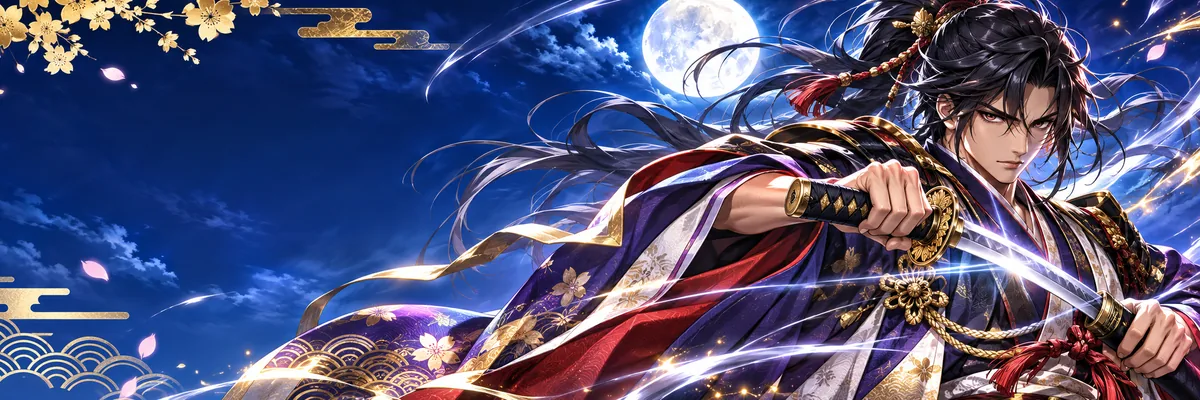
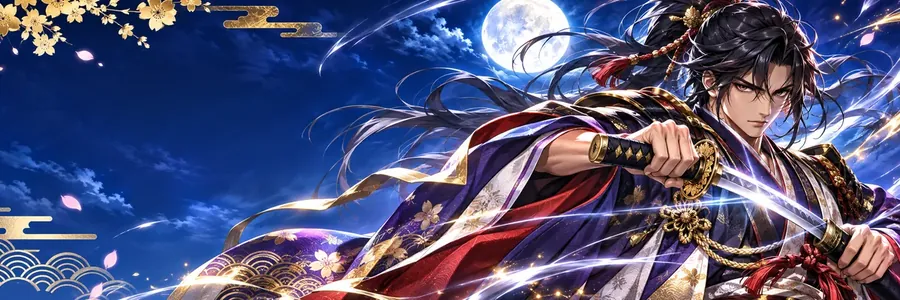
レビューの指摘を直す（台の液晶）
- 知らせを順番待ちにして、前の知らせを消さずに1つずつ出す（天井・BIG・実績などが重なると見えなかった）
- 扉の大当たりの枚数、八門の「扉チャンス終了 合計 n枚 獲得」、レバーを引いたときのボーナス確定、オートが止まったときの当たりの気配を液晶に出す
- ふつうの払い出し（ベル・チェリー・REG 中・ラッシュ中のベル）も液晶に出す（短く）。リプレイは枚数を出さず、ボーナスの合計にも数えない
- 画面を作り直しても、出ている知らせが二重に飛び出さない
- 知らせの種類を文言から決めず、呼ぶ側で渡す。金色にする枚数や表示時間を src/data/ui.ts に
- 当たっていない役が画面にそろったときの払い出しで、チェリー・スイカの払い出しが飛ばされることがあったのを直した
- 液晶を少し高くして下の帯が知らせに重ならないように。バナーの画像を 900×300 にして軽くした。使わなくなった台の絵の描画を消した

Claude-Session: https://claude.ai/code/session_016fk9NuHm5XbXuuYNEzQTzr

diff --git a/src/ui/app.ts b/src/ui/app.ts
@@ -10,7 +10,7 @@ import { dailyEffects } from '../game/life';
 import { CURRENT_BUILD, buildLabel, fetchLatestBuild, reloadToLatest } from '../version';
 import { loadSymbols, drawSymImage } from './symbols';
 import { DEV_PASSWORD, DEV_TAPS, DEV_TAP_MS, DEV_MAX_MONEY } from '../data/dev';
-import { AUTO_GAMES, HIST_MAX, LCD_MS } from '../data/ui';
+import { AUTO_GAMES, HIST_MAX, LCD_MS, LCD_BUSY_MS, LCD_SMALL_MS, LCD_GOLD } from '../data/ui';
 import { setTabbar, pagesHTML, bindPages, openSheet } from './widgets';
 
 export function startApp(){
@@ -416,7 +416,6 @@ function renderFloor(){
   <div class="friend"><div class="r"><span>店員さんとの仲</span><b>${f}</b></div><div class="bar"><i style="width:${f}%;background:var(--cyan)"></i></div><p>${friendInfo()}</p>
   <button class="btn alt" type="button" data-a="gift" ${Hs.gift===S.day||S.money<HALLS[hallIdx].gift?'disabled':''}>${Hs.gift===S.day?'今日は差し入れ済み':`差し入れをする ${yen(HALLS[hallIdx].gift)}（仲+8）`}</button></div>
   <button class="btn alt" type="button" data-a="home">やっぱり帰る</button>`;
-  document.querySelectorAll('[data-mach]').forEach(cv=>{const c=cv.getContext('2d');c.imageSmoothingEnabled=false;drawMachine(c,MACH[cv.dataset.mach])});
 }
 
 /* ---------- playing ---------- */
@@ -493,7 +492,7 @@ function lever(){
   P.g++;P.order=[];P.navi=-1;P.hint=-1;P.res=[];P.wins=null;
   tick();
   if(P.mode==='normal'){P.flag=P.pend||roll(mach(),P.s,Math.random());P.pend=null;
-    if(P.flag==='BIG'||P.flag==='REG'){const b=P.flag;if(Math.random()<.5){P.mode='align';P.bonus=b;SND.fan();P.flag='BONUS'}else{P.post=b;P.flag=null}}
+    if(P.flag==='BIG'||P.flag==='REG'){const b=P.flag;if(Math.random()<.5){P.mode='align';P.bonus=b;SND.fan();P.flag='BONUS';say('ボーナス確定！',P.m.kind==='sanj'?'赤7をそろえよう':'7をそろえよう','hot')}else{P.post=b;P.flag=null}}
     else if(P.flag==='CH'&&Math.random()<P.m.dup){P.post=P.m.reg&&Math.random()<.4?'REG':'BIG';P.dupCH=true}
     if(P.flag==='BL'&&P.m.kind==='sanj'){P.navCorrect=Math.floor(Math.random()*3);if(Math.random()<.3)P.hint=P.navCorrect}
   }else if(P.mode==='at'){P.flag=atRoll(Math.random());if(P.flag==='BL'){P.navCorrect=Math.floor(Math.random()*3);P.navi=P.navCorrect}}
@@ -545,45 +544,60 @@ function landed(i,res){
 }
 function popAt(i,text,cls){const g=$('#glass');if(!g)return;const x=PAD+i*(RW+GAP)+RW/2,el=document.createElement('div');el.className='pop '+cls;el.textContent=text;el.style.left=((g.clientWidth-cv.clientWidth)/2+x)+'px';g.appendChild(el);setTimeout(()=>el.remove(),950)}
 function offText(res){if(res.off>0)return res.off+'コマ早い';if(res.off<0)return(-res.off)+'コマ遅い';return 'ハズレ'}
-// 打っている間の知らせは、リールの上の液晶に大きく出す（仕様書 9.6）。下の文字だと見ないため
-const BONUS_MODES=['big','reg','at','zen'];
-function gain(n,why){if(n>0){P.medals+=n;SND.pay();if(BONUS_MODES.includes(P.mode))P.bonusGot=(P.bonusGot||0)+n}if(why)say(n>0?why.replace(/\s*\d+枚$/,''):why,n>0?`+${n}枚 獲得`:'',n>=30?'gold':'')}
-function logMsg(t){P.log.push(t);let sub='';if(/終了$/.test(t)&&P.bonusGot){sub=`合計 ${P.bonusGot}枚 獲得`;P.bonusGot=0}say(t,sub,/終了$/.test(t)?'gold':/こぼし|外した|そろわず/.test(t)?'miss':'')}
-let lcdT;function say(text,sub='',cls=''){if(!P)return;P.lcd={text,sub,cls,until:Date.now()+LCD_MS};const el=$('#lcdMsg');if(el)el.outerHTML=lcdMsgHTML();clearTimeout(lcdT);lcdT=setTimeout(()=>{const e2=$('#lcdMsg');if(e2&&P)e2.outerHTML=lcdMsgHTML()},LCD_MS+30)}
-function lcdMsgHTML(){const L=P.lcd&&P.lcd.until>Date.now()?P.lcd:null;return `<div class="lcd-msg${L?' on '+L.cls:''}" id="lcdMsg" aria-live="polite">${L?`<b>${L.text}</b>${L.sub?`<small>${L.sub}</small>`:''}`:''}</div>`}
+// 打っている間の知らせは、リールの上の液晶に大きく出す（仕様書 9.6）。下の文字だと見ないため。
+// 知らせは順番待ちにして、前の知らせを消さずに1つずつ出す
+const BONUS_MODES=['big','reg','at','zen','door'];
+// 払い出し。why は液晶に出す役の名前。replay は「獲得」に数えない（ボーナスの合計はリプレイを除いた払い出しの合計）
+function gain(n,why,replay=false){if(n>0){P.medals+=n;SND.pay();if(!replay&&BONUS_MODES.includes(P.mode))P.bonusGot=(P.bonusGot||0)+n}
+  if(why)say(why,n>0&&!replay?`+${n}枚 獲得`:'',n<=0?'miss':n>=LCD_GOLD?'gold':'',n>0&&n<LCD_GOLD?'small':'')}
+// kind：'end' はボーナス終了（合計の獲得枚数を添える）、'miss' は取りこぼし
+function logMsg(t,kind=''){P.log.push(t);let sub='';if(kind==='end'&&P.bonusGot){sub=`合計 ${P.bonusGot}枚 獲得`;P.bonusGot=0}say(t,sub,kind==='end'?'gold':kind)}
+let lcdT;
+// prio が 'small' の知らせ（ふつうの払い出し）は、順番待ちが長くならないよう、待っている small を置き換える
+function say(text,sub='',cls='',prio=''){if(!P)return;P.lcdQ=P.lcdQ||[];
+  if(prio==='small')P.lcdQ=P.lcdQ.filter(m=>m.prio!=='small');
+  P.lcdQ.push({text,sub,cls,prio});if(!(P.lcd&&P.lcd.until>Date.now()))lcdNext()}
+function lcdNext(){clearTimeout(lcdT);if(!P)return;const m=(P.lcdQ||[]).shift();
+  if(!m){P.lcd=null;const e=$('#lcdMsg');if(e)e.outerHTML=lcdMsgHTML();return}
+  const ms=m.prio==='small'?LCD_SMALL_MS:P.lcdQ.length?LCD_BUSY_MS:LCD_MS;P.lcd={...m,until:Date.now()+ms};
+  const e=$('#lcdMsg');if(e)e.outerHTML=lcdMsgHTML(false);lcdT=setTimeout(lcdNext,ms)}
+// still：画面を作り直したときは、出ている知らせを動かさずにそのまま出す
+function lcdMsgHTML(still=true){const L=P.lcd&&P.lcd.until>Date.now()?P.lcd:null;return `<div class="lcd-msg${L?' on '+L.cls+(still?' still':''):''}" id="lcdMsg" aria-live="polite">${L?`<b>${L.text}</b>${L.sub?`<small>${L.sub}</small>`:''}`:''}</div>`}
 function settle(){
   const f=P.flag,k=P.m.kind,res=P.res,all=f==='BONUS'?(P.wins||[]).some(w=>w.sym===P.bonus):!!f&&(P.wins||[]).some(w=>w.sym===f);
   if(P.mode==='normal'){
     const on=x=>(P.wins||[]).some(w=>w.sym===x);
-    if(f==='RP'){if(on('RP'))gain(PAY.RP);else logMsg('リプレイこぼし')}
-    else if(f==='BL'){if(k==='sanj'){const ok=P.order[0]===P.navCorrect&&on('BL');gain(ok?PAY.BLok:PAY.BLng,ok?'3択正解 ベル9枚':'押し順ミス 1枚')}else if(on('BL'))gain(PAY.BL);else logMsg('ベルこぼし（変則押し）')}
-    if(f!=='BL'&&on('BL'))gain(k==='sanj'?PAY.BLok:PAY.BL);if(f!=='RP'&&on('RP'))gain(PAY.RP);
-    else if(f==='CH'){if(k==='fuku')gain(res[0].hit?PAY.CHf:0,res[0].hit?'チェリー 4枚':'チェリーこぼし');else gain(PAY.CHo)}
-    else if(f==='WM'){gain(all?PAY.WM:0,all?'スイカ 12枚':'スイカこぼし')}
+    if(f==='RP'){if(on('RP'))gain(PAY.RP,'リプレイ',true);else logMsg('リプレイこぼし','miss')}
+    else if(f==='BL'){if(k==='sanj'){const ok=P.order[0]===P.navCorrect&&on('BL');gain(ok?PAY.BLok:PAY.BLng,ok?'3択正解 ベル':'押し順ミス')}else if(on('BL'))gain(PAY.BL,'ベル');else logMsg('ベルこぼし（変則押し）','miss')}
+    else if(f==='CH'){if(k==='fuku')gain(res[0].hit?PAY.CHf:0,res[0].hit?'チェリー':'チェリーこぼし');else gain(PAY.CHo,'チェリー')}
+    else if(f==='WM'){gain(all?PAY.WM:0,all?'スイカ':'スイカこぼし')}
+    // 当たっていない役が画面にそろったときも、画面どおりに払い出す（変則押しのとき）
+    if(f!=='BL'&&on('BL'))gain(k==='sanj'?PAY.BLok:PAY.BL,'ベル');
+    if(f!=='RP'&&on('RP'))gain(PAY.RP,'リプレイ',true);
   }else if(P.mode==='align'){
     if(all){
       bonusStarted();
-      if(P.bonus==='REG'){P.reg=(P.reg||0)+1;P.mode='reg';P.left=REG_G;cutin('REG');logMsg('7・7・BAR REG')}
-      else{P.big++;if(k==='fuku'){P.mode='big';P.left=BIG_G;cutin('BIG');logMsg('7・7・7 BIG')}else if(k==='sanj'){P.mode='at';P.left=AT_G;cutin('侍ラッシュ')}else{P.mode='zen';P.left=ZEN_G;P.doors=[0,1,2,3,4,5,6,7];P.winDoor=Math.floor(Math.random()*8);cutin('扉チャンス')}}
+      if(P.bonus==='REG'){P.reg=(P.reg||0)+1;P.mode='reg';P.left=REG_G;say('REG','7・7・BAR','hot')}
+      else{P.big++;if(k==='fuku'){P.mode='big';P.left=BIG_G;say('BIG','7・7・7','hot')}else if(k==='sanj'){P.mode='at';P.left=AT_G;say('侍ラッシュ','7・7・7','hot')}else{P.mode='zen';P.left=ZEN_G;P.doors=[0,1,2,3,4,5,6,7];P.winDoor=Math.floor(Math.random()*8);say('扉チャンス','中リールの赤7で扉を減らせ','hot')}}
       SND.fan();P.post=null;
-    }else logMsg('そろわず。もう一度');
+    }else logMsg('そろわず。もう一度','miss');
   }else if(P.mode==='big'){
-    const ok=res[0].bita,okPay=BITA_OK+(has('bita10')?2:0);gain(ok?okPay:BITA_NG,ok?'ビタ成功 '+okPay+'枚':'ビタ失敗 '+BITA_NG+'枚');S.bitaRun=ok?S.bitaRun+1:0;if(S.bitaRun>=10)grant('bita10');P.bitaN=(P.bitaN||0)+(ok?1:0);P.left--;if(P.left<=0){P.mode='normal';logMsg('BIG終了');S.fun=clamp(S.fun+6)}
+    const ok=res[0].bita,okPay=BITA_OK+(has('bita10')?2:0);gain(ok?okPay:BITA_NG,ok?'ビタ成功':'ビタ失敗');S.bitaRun=ok?S.bitaRun+1:0;if(S.bitaRun>=10)grant('bita10');P.bitaN=(P.bitaN||0)+(ok?1:0);P.left--;if(P.left<=0){P.mode='normal';logMsg('BIG終了','end');S.fun=clamp(S.fun+6)}
   }else if(P.mode==='reg'){
-    gain(REG_PAY);P.left--;if(P.left<=0){P.mode='normal';logMsg('REG終了');S.fun=clamp(S.fun+3)}
+    gain(REG_PAY,'REG');P.left--;if(P.left<=0){P.mode='normal';logMsg('REG終了','end');S.fun=clamp(S.fun+3)}
   }else if(P.mode==='at'){
-    if(f==='BL')gain(P.order[0]===P.navi?PAY.BLok:PAY.BLng);else if(f==='RP')gain(PAY.RP);
+    if(f==='BL'){const ok=P.order[0]===P.navi;gain(ok?PAY.BLok:PAY.BLng,ok?'ナビどおり ベル':'押し順ミス')}else if(f==='RP')gain(PAY.RP,'リプレイ',true);
     P.left--;if(P.left<=0){P.mode='cont';P.contWin=Math.floor(Math.random()*3)}
   }else if(P.mode==='zen'){
-    const n=res[1].bita?2:res[1].hit?1:0;if(n){const wrong=P.doors.filter(d=>d!==P.winDoor).sort(()=>Math.random()-.5).slice(0,n);P.doors=P.doors.filter(d=>!wrong.includes(d));logMsg(n===2?'中段ビタ 扉が2つ消えた':'赤7 扉が1つ消えた')}else logMsg('赤7を外した')
+    const n=res[1].bita?2:res[1].hit?1:0;if(n){const wrong=P.doors.filter(d=>d!==P.winDoor).sort(()=>Math.random()-.5).slice(0,n);P.doors=P.doors.filter(d=>!wrong.includes(d));logMsg(n===2?'中段ビタ 扉が2つ消えた':'赤7 扉が1つ消えた')}else logMsg('赤7を外した','miss')
     P.left--;if(P.left<=0)P.mode='door';
   }
-  if(P.post&&P.mode==='normal'){P.mode='align';P.bonus=P.post;P.post=null;SND.fan();if(P.dupCH){cutin('チェリー重複');P.dupCH=false}else say('ボーナス確定！',P.m.kind==='sanj'?'赤7をそろえよう':'7をそろえよう','hot')}
+  if(P.post&&P.mode==='normal'){P.mode='align';P.bonus=P.post;P.post=null;SND.fan();if(P.dupCH){say('チェリー重複','ボーナス確定！','hot');P.dupCH=false}else say('ボーナス確定！',P.m.kind==='sanj'?'赤7をそろえよう':'7をそろえよう','hot')}
   P.flag=null;S.play.medals=P.medals;S.play.inv=P.inv;save();
   if(S.hp<=0)return collapse();
   renderPlay();
 }
-function bonusStarted(){P.bonusGot=0;grant('first');if(P.ceilHit){grant('ceil');cutin('天井')}else if(P.startSince>=400&&P.g<=CEIL[P.m.kind]-P.startSince)grant('hyena');P.since=0;P.ceilHit=false;P.startSince=0}
+function bonusStarted(){P.bonusGot=0;grant('first');if(P.ceilHit){grant('ceil');say('天井','ボーナス確定','hot')}else if(P.startSince>=400&&P.g<=CEIL[P.m.kind]-P.startSince)grant('hyena');P.since=0;P.ceilHit=false;P.startSince=0}
 function payHTML(){
   const k=P.m.kind,rows=[['ベル（1ライン）',k==='sanj'?'押し順正解9枚／不正解1枚':'8枚'],['リプレイ','もう1回無料'],['チェリー（左リールのどこでも）',(k==='fuku'?'4枚':'2枚')+`。${Math.round(P.m.dup*100)}%でボーナスも同時に当たっている`],...(k==='fuku'?[['スイカ（1ライン）','12枚']]:[]),
     ['7・7・7',k==='fuku'?`BIG ${BIG_G}G。毎ゲーム左リールを滑らせずに、上から7・リプレイ・7の形で止める（中段がリプレイ）。成功${BITA_OK}枚、失敗${BITA_NG}枚`:k==='sanj'?`侍ラッシュ ${AT_G}G（押し順ナビ）`:`扉チャンス。前兆${ZEN_G}Gの間、中リールに赤7を止めると扉-1、中段に滑りなしで止めると扉-2。最後に8択`],...(P.m.reg?[['7・7・BAR',`REG ${REG_G}G。毎ゲーム${REG_PAY}枚`]]:[])];
@@ -594,19 +608,19 @@ function tick(){const sk=Math.random()<.1*S.upg.body;if(P.g%12===0&&!sk)S.hun=cl
 function doorHTML(){return `<p class="lead" style="text-align:center;font-size:18px">8つの扉から1つ選べ（残り${P.doors.length}）</p><div class="picks p8">${[0,1,2,3,4,5,6,7].map(d=>`<button class="door ${P.doors.includes(d)?'':'gone'}" type="button" data-a="door" data-d="${d}" ${P.doors.includes(d)?'':'disabled'}>${d+1}</button>`).join('')}</div><p class="sub">当たりなら ${DOOR_WIN}枚、外れでも ${DOOR_LOSE}枚</p>`}
 function contHTML(){return `<p class="lead" style="text-align:center;font-size:18px">継続をかけた3択。正解なら +${AT_ADD}G</p><div class="picks p3">${['左','中','右'].map((n,i)=>`<button class="door" type="button" data-a="cont" data-d="${i}">${n}</button>`).join('')}</div>`}
 function pickDoor(d){
-  const win=d===P.winDoor;gain(win?DOOR_WIN:DOOR_LOSE,win?'扉 大当たり '+DOOR_WIN+'枚':'扉 外れ '+DOOR_LOSE+'枚');
-  if(win){cutin('大当たり');SND.fan();S.fun=clamp(S.fun+12)}else S.fun=clamp(S.fun+4);
-  P.mode='normal';P.doors=null;save();renderPlay();
+  const win=d===P.winDoor;gain(win?DOOR_WIN:DOOR_LOSE,win?'扉 大当たり':'扉 外れ');
+  if(win){SND.fan();S.fun=clamp(S.fun+12)}else S.fun=clamp(S.fun+4);
+  P.mode='normal';P.doors=null;logMsg('扉チャンス終了','end');save();renderPlay();
 }
 function pickCont(d){
-  if(d===P.contWin){P.mode='at';P.left=AT_ADD;cutin('継続');SND.fan();logMsg('3択正解 ラッシュ継続')}else{P.mode='normal';logMsg('ラッシュ終了');S.fun=clamp(S.fun+6)}
+  if(d===P.contWin){P.mode='at';P.left=AT_ADD;SND.fan();say('ラッシュ継続',`3択正解 +${AT_ADD}G`,'hot')}else{P.mode='normal';logMsg('ラッシュ終了','end');S.fun=clamp(S.fun+6)}
   save();renderPlay();
 }
 function randomStops(){for(let t=0;t<60;t++){reels.forEach(r=>{r.pos=Math.floor(Math.random()*N);r.final=r.pos;r.state='stop'});const fs=reels.map(r=>r.pos);if(!lineWins(fs,reels).length&&!bonusLines(fs,reels,'R7').length&&!bonusLines(fs,reels,'BAR').length&&![0,1,2].some(row=>['CH','WM'].includes(symAt(reels[0],fs[0],row))))break}if(P)P.wins=null}
 // オートで n ゲーム回す。回している間は、どのオートのボタンも「止める」になる
 async function autoPlay(games){
   if(P.spinning||P.autoRun)return;
-  if(P.pend||P.mode==='align'){toast('当たりの気配。ここからは手で打とう');return}
+  if(P.pend||P.mode==='align'){say('当たりの気配','ここからは手で打とう','hot');return}
   P.autoRun=true;P.autoStop=false;sync();
   for(let n=0;n<games&&!P.autoStop;n++){
     if(P.g>=CLOSE_MIN-OPEN_MIN){P.autoRun=false;return quit(true)}
@@ -617,7 +631,7 @@ async function autoPlay(games){
     P.medals-=3;P.g++;tick();
     if(f==='RP')gain(PAY.RP);
     else if(f==='BL'){if(k==='sanj'){const ok=Math.random()<1/3;gain(ok?PAY.BLok:PAY.BLng)}else gain(PAY.BL)}
-    else if(f==='CH'){if(Math.random()<.67){gain(k==='fuku'?PAY.CHf:PAY.CHo);if(Math.random()<P.m.dup){P.mode='align';P.bonus=P.m.reg&&Math.random()<.4?'REG':'BIG';cutin('チェリー重複');SND.fan();break}}}
+    else if(f==='CH'){if(Math.random()<.67){gain(k==='fuku'?PAY.CHf:PAY.CHo);if(Math.random()<P.m.dup){P.mode='align';P.bonus=P.m.reg&&Math.random()<.4?'REG':'BIG';say('チェリー重複','ボーナス確定！','hot');SND.fan();break}}}
     else if(f==='WM'&&k==='fuku'){if(Math.random()<.18)gain(PAY.WM)}
     randomStops();
     $('.counter').outerHTML=counterHTML();const st2=$('.stats');if(st2)st2.outerHTML=statsHTML();status();
@@ -626,7 +640,7 @@ async function autoPlay(games){
     if(S.hp<=0){P.autoRun=false;return collapse()}
   }
   P.autoRun=false;P.autoStop=false;sync();S.play.medals=P.medals;S.play.inv=P.inv;save();
-  if(P.pend||P.mode==='align')toast('当たりの気配。ここからは手で打とう');
+  if(P.pend||P.mode==='align')say('当たりの気配','ここからは手で打とう','hot');
   renderPlay();
 }
 function quit(closed){

diff --git a/src/style.css b/src/style.css
@@ -316,7 +316,6 @@ body{background:radial-gradient(120% 60% at 50% -10%,#3a1f6b 0%,rgba(58,31,107,0
 .grid4 .tile b{font-size:14px}
 /* 機種のバナー（台の絵ができるまでは色と文字だけ） */
 .banner{display:grid;grid-template-columns:auto 1fr;gap:12px;align-items:center;padding:12px 14px;border-radius:14px;border:2px solid transparent;box-shadow:var(--frame-shadow)}
-.banner canvas{width:46px;height:62px;image-rendering:pixelated;filter:drop-shadow(0 2px 0 #000)}
 .banner div{display:flex;flex-direction:column;gap:2px;min-width:0}
 .banner b{font-family:var(--disp);font-weight:400;font-size:30px;line-height:1.1;background:var(--gold-grad);-webkit-background-clip:text;background-clip:text;color:transparent;filter:drop-shadow(0 2px 0 #2a0a0a)}
 .banner span{font-size:12px;color:#f3e6ff;text-shadow:0 1px 0 #000}
@@ -356,12 +355,11 @@ body{background:radial-gradient(120% 60% at 50% -10%,#3a1f6b 0%,rgba(58,31,107,0
 .units-t .aim{font-style:normal;display:inline-block;margin-right:3px;padding:0 3px;border-radius:4px;background:#ffd25a;color:#3a2200;font-size:10px;font-weight:700;vertical-align:1px}
 
 /* ---------- 台の液晶（仕様書 9.6）：台のバナーの絵を背景に、知らせを大きく出す ---------- */
-.lcd{position:relative;aspect-ratio:3/1;max-width:100%;border-radius:10px;overflow:hidden;border:2px solid #000;box-shadow:0 0 0 2px #c88a1e,inset 0 0 18px rgba(0,0,0,.6);background:var(--bn) center/cover,#120c2c}
+.lcd{position:relative;display:flex;flex-direction:column;aspect-ratio:5/2;max-width:100%;border-radius:10px;overflow:hidden;border:2px solid #000;box-shadow:0 0 0 2px #c88a1e,inset 0 0 18px rgba(0,0,0,.6);background:var(--bn) center/cover,#120c2c}
 .lcd::after{content:"";position:absolute;inset:0;pointer-events:none;background:linear-gradient(90deg,rgba(0,0,0,.35),rgba(0,0,0,0) 60%),repeating-linear-gradient(0deg,rgba(255,255,255,.04) 0 1px,transparent 1px 3px)}
-.lcd .lamp{position:absolute;left:0;right:0;bottom:0;z-index:2;min-height:0;border:0!important;border-radius:0;padding:4px 8px;font-size:12px;background:linear-gradient(0deg,rgba(5,4,15,.92),rgba(5,4,15,.6));box-shadow:none}
+.lcd .lamp{position:relative;flex:none;z-index:2;min-height:0;border:0!important;border-radius:0;padding:3px 8px;font-size:11px;line-height:1.35;background:linear-gradient(0deg,rgba(5,4,15,.92),rgba(5,4,15,.6));box-shadow:none}
 .lcd .lamp.empty{display:none}
-.lcd:has(.lamp:not(.empty)) .lcd-msg{bottom:24px}
-.lcd-msg{position:absolute;inset:0;z-index:1;display:flex;flex-direction:column;align-items:center;justify-content:center;gap:2px;text-align:center;padding:0 10px;opacity:0;transition:opacity .2s}
+.lcd-msg{position:relative;flex:1;min-height:0;z-index:1;display:flex;flex-direction:column;align-items:center;justify-content:center;gap:2px;text-align:center;padding:0 10px;opacity:0;transition:opacity .2s}
 .lcd-msg.on{opacity:1;background:radial-gradient(ellipse at center,rgba(0,0,0,.72) 0%,rgba(0,0,0,.35) 70%,rgba(0,0,0,0) 100%);animation:lcdIn .35s cubic-bezier(.2,1.4,.4,1)}
 .lcd-msg b{font-family:var(--disp);font-weight:400;font-size:clamp(22px,7.5vw,32px);line-height:1.15;color:#fff;-webkit-text-stroke:1px #000;text-shadow:0 3px 0 #000,0 0 14px rgba(255,255,255,.5)}
 .lcd-msg small{font-family:var(--disp);font-size:18px;background:var(--gold-grad);-webkit-background-clip:text;background-clip:text;color:transparent;filter:drop-shadow(0 2px 0 #000)}
@@ -375,3 +373,6 @@ body{background:radial-gradient(120% 60% at 50% -10%,#3a1f6b 0%,rgba(58,31,107,0
 .banner{grid-template-columns:1fr;min-height:120px;align-items:end;background-image:linear-gradient(90deg,rgba(0,0,0,.55),rgba(0,0,0,0) 65%),var(--bn)!important;background-size:cover!important;background-position:center!important}
 .banner div{max-width:62%}
 .banner{border:2px solid #e2a92e!important}
+.lcd-msg.still,.lcd-msg.still.hot{animation:none}
+.lcd-msg.small b{font-size:clamp(18px,6vw,24px)}
+.lcd-msg.small small{font-size:15px}

diff --git a/src/data/ui.ts b/src/data/ui.ts
@@ -5,3 +5,9 @@ export const AUTO_GAMES = [10, 100];
 export const HIST_MAX = 60;
 /** 液晶に知らせを出しておく時間（ミリ秒） */
 export const LCD_MS = 1800;
+/** 次の知らせが待っているときの表示時間（ミリ秒） */
+export const LCD_BUSY_MS = 1100;
+/** ふつうの払い出し（ベル・リプレイなど）の表示時間（ミリ秒） */
+export const LCD_SMALL_MS = 700;
+/** この枚数以上の払い出しは金色の文字で出す */
+export const LCD_GOLD = 30;

diff --git a/docs/game-spec.md b/docs/game-spec.md
@@ -294,8 +294,8 @@
 
 ### 9.6 台の液晶
 - 打つ画面のリールの上に、台のバナーの絵（`public/banners/`）を背景にした液晶を置く。
-- 知らせはすべてここに大きく出す：役の払い出し（「ビタ成功」「+32枚 獲得」など）、取りこぼし、ボーナス確定・BIG・REG・ラッシュ・天井・チェリー重複、ボーナス終了（「BIG終了」「合計 n枚 獲得」）、扉チャンスの結果、実績。リールの下には出さない。
-- 知らせは約1.8秒（`LCD_MS`）で消え、台の絵に戻る。ボーナス中の残りゲームや狙い方などの案内は、液晶の下の帯に出し続ける。
+- 知らせはすべてここに大きく出す：役の払い出し（「ベル +8枚 獲得」「ビタ成功 +32枚 獲得」など。リプレイは枚数を出さない）、取りこぼし、ボーナス確定・BIG・REG・ラッシュ・天井・チェリー重複、ボーナス終了（「BIG終了」「合計 n枚 獲得」。合計はボーナス中の払い出しの合計で、リプレイと賭けたメダルは数えない。八門は扉の払い出し）、扉チャンスの結果、実績。リールの下には出さない。オート中は払い出しを出さない。
+- 知らせは順番に1つずつ出し、前の知らせを消さない。1つにつき約1.8秒（次が待っているときは約1.1秒、ふつうの払い出しは約0.7秒。`src/data/ui.ts`）。30枚以上の払い出しは金色。ボーナス中の残りゲームや狙い方などの案内は、液晶の下の帯に出し続ける。
 - 店の台選びの機種のバナーにも同じ絵を使う。
 
 ---
